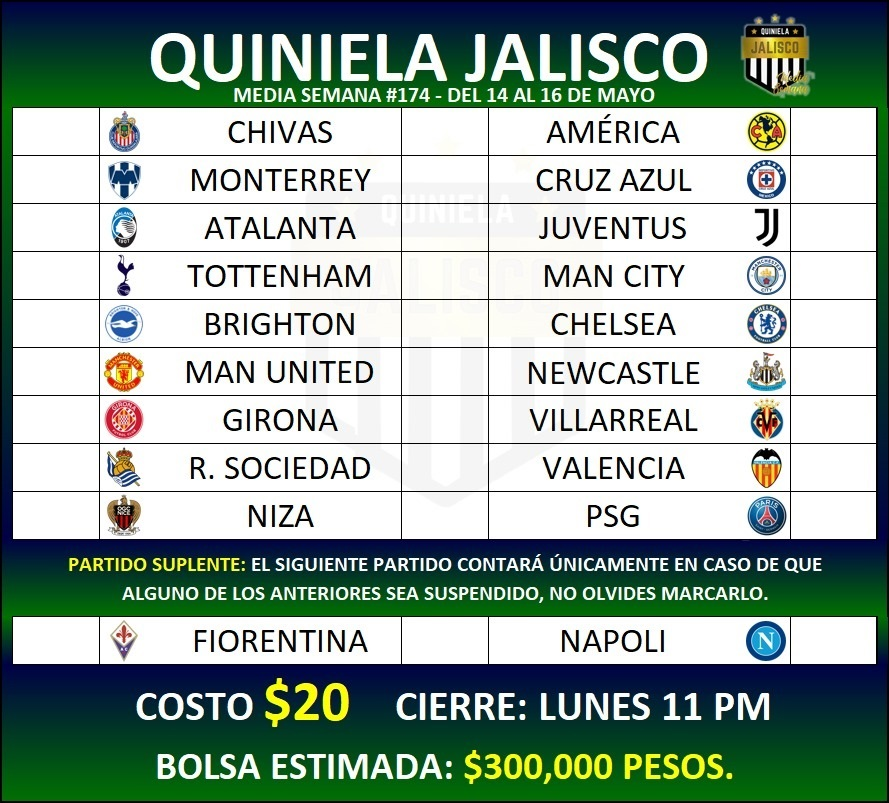
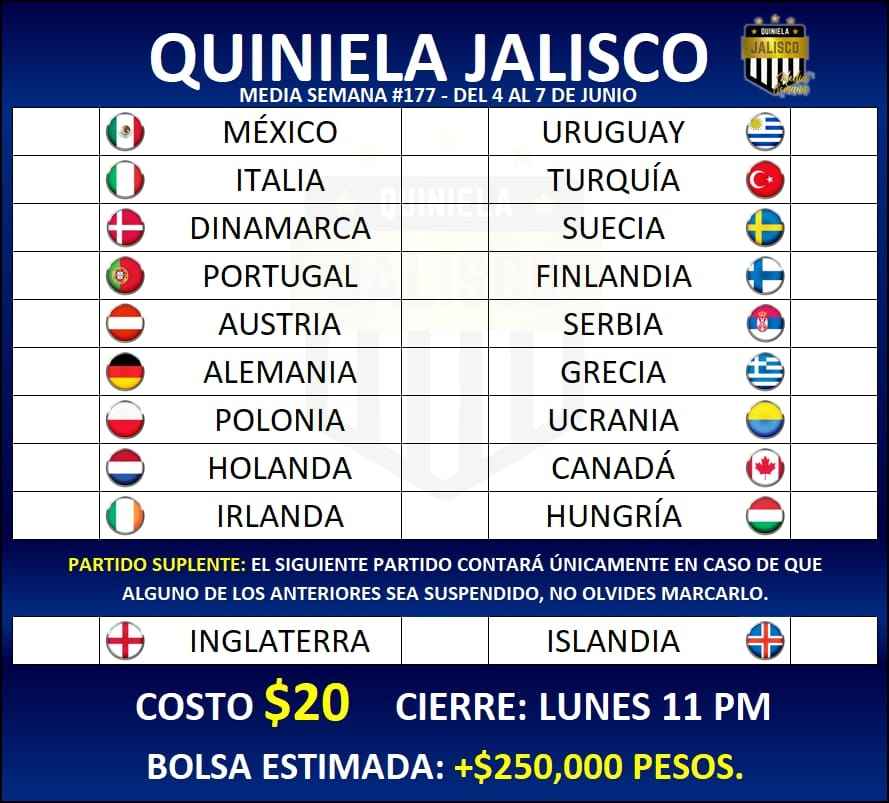
Media Semana #177

diff --git a/MediaSemana/stylesmSusp.css b/MediaSemana/stylesmSusp.css
@@ -16,7 +16,7 @@ body{
 
 .quiniela{
     margin: auto;
-    background-image: url("fbaa5585-242f-4c45-94e7-abb4ed6ce3da.jpeg");
+    background-image: url("quinielamSusp.jpg");
     background-size: 100%;
     background-repeat: no-repeat;
     max-width: 400px;
@@ -94,8 +94,8 @@ body{
     margin-top: 9%;
     border: solid 1px black;
     border-radius: 0 0 14px 14px;
-    background: -webkit-linear-gradient(0.5turn, rgb(20,56,56), rgb(0 8 65) 80%);
-    background: linear-gradient(0.5turn, rgb(20,56,56), rgb(0 8 65) 80%);
+    background: -webkit-linear-gradient(0.5turn, rgb(0,27,108), rgb(0 8 65) 80%);
+    background: linear-gradient(0.5turn, rgb(0,27,108), rgb(0 8 65) 80%);
 }
 
 .text-lg{
@@ -290,7 +290,7 @@ h6{
 }
 
 #cantidad:before{
-    content:' +$350,000 pesos\A ¡Se reparte todo el acumulado!';
+    content:' +$250,000 pesos';
     color: yellow;
     white-space:pre;
 }
